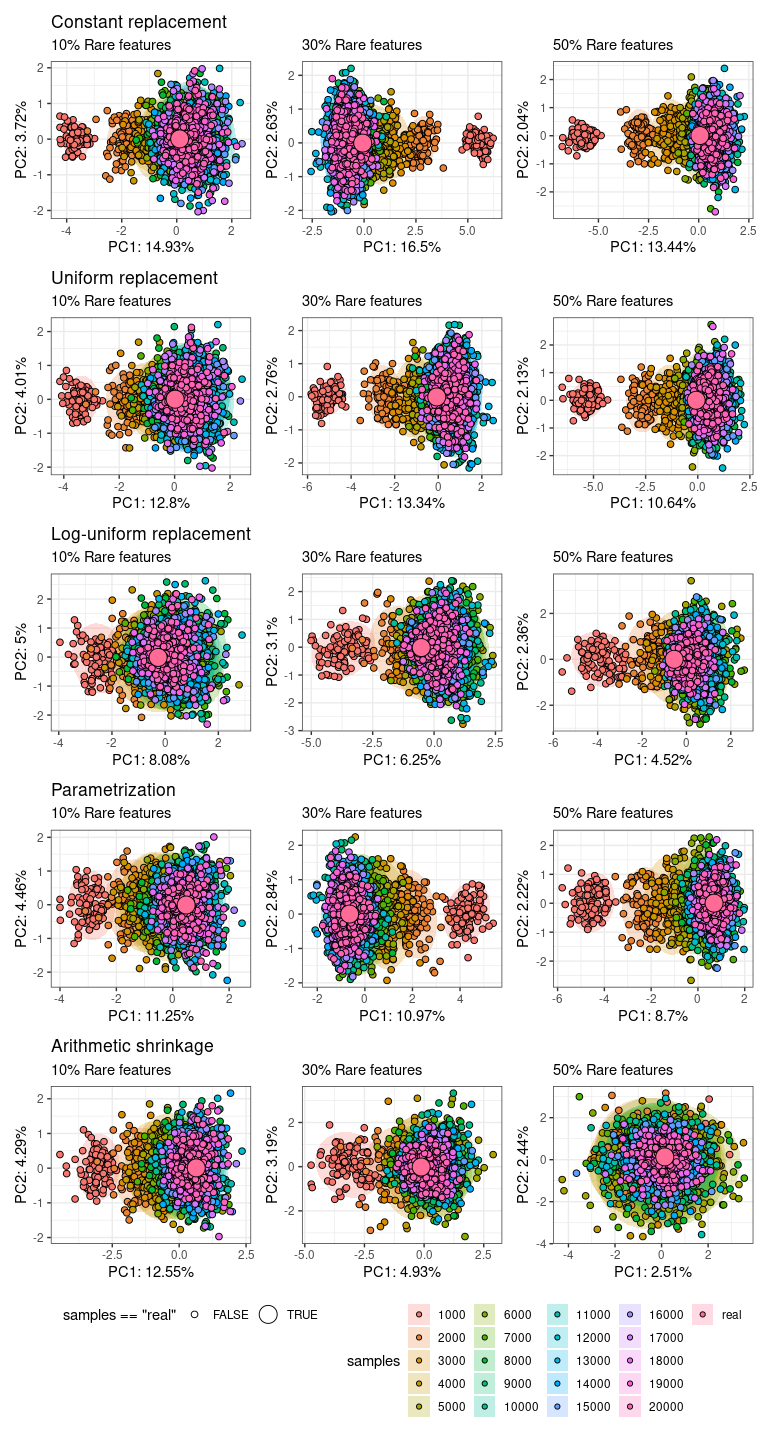
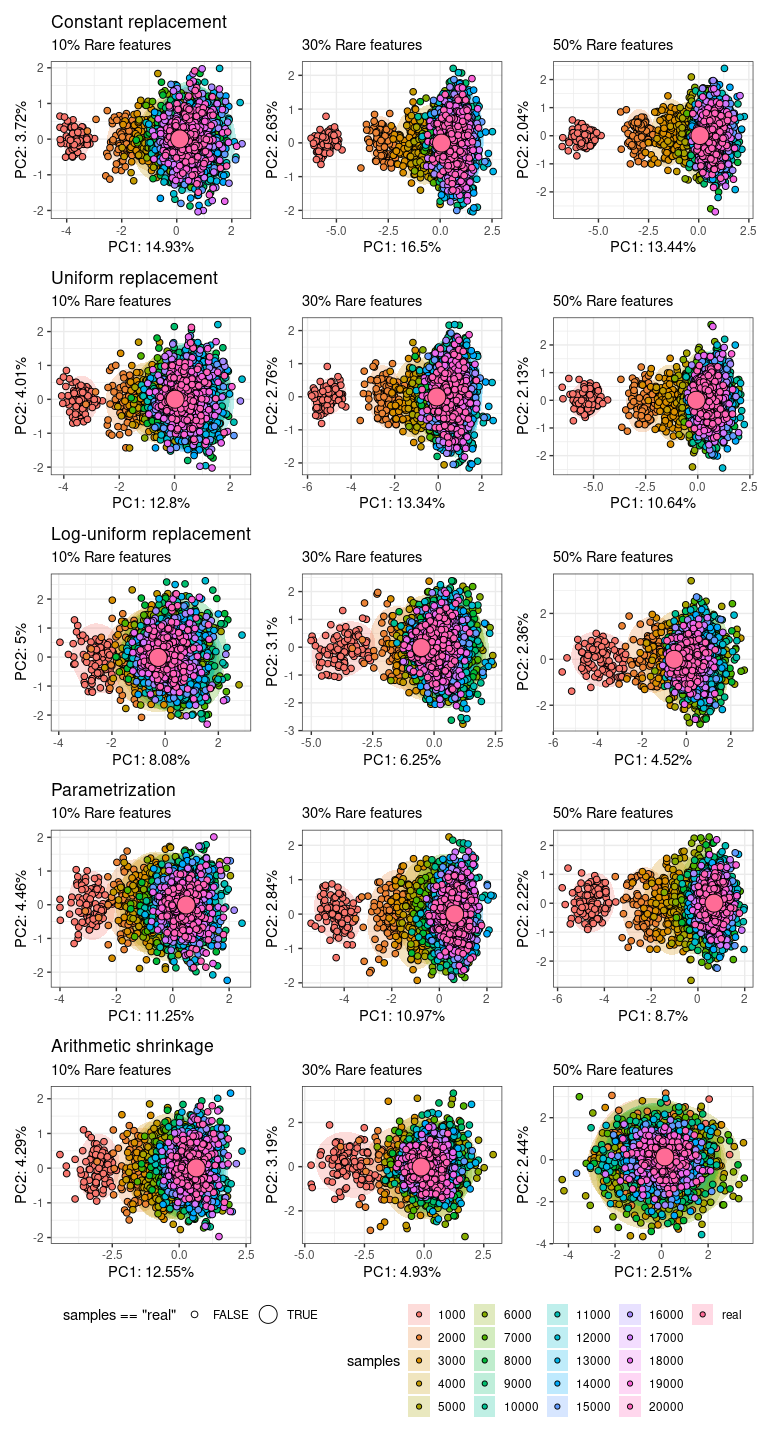
fixed PCA orientation

Changed region(s): [[0.4062, 0.5625, 0.6562, 0.6875], [0.4062, 0.0312, 0.6562, 0.1562]]

diff --git a/docs/permanova.md b/docs/permanova.md
@@ -661,7 +661,7 @@ pc3 <- round(const_b2.pca$sdev[3]^2/sum(const_b2.pca$sdev^2),4) * 100
 pc4 <- round(const_b2.pca$sdev[4]^2/sum(const_b2.pca$sdev^2),4) * 100
 
 #Extract the scores for every sample for the first four components for plotting. 
-pca  = data.frame(PC1 = const_b2.pca$x[,1], 
+pca  = data.frame(PC1 = const_b2.pca$x[,1] * -1, 
                   PC2 = const_b2.pca$x[,2], 
                   PC3 = const_b2.pca$x[,3], 
                   PC4 = const_b2.pca$x[,4])
@@ -701,7 +701,7 @@ pc3 <- round(new_b2.pca$sdev[3]^2/sum(new_b2.pca$sdev^2),4) * 100
 pc4 <- round(new_b2.pca$sdev[4]^2/sum(new_b2.pca$sdev^2),4) * 100
 
 #Extract the scores for every sample for the first four components for plotting. 
-pca  = data.frame(PC1 = new_b2.pca$x[,1] * -1, 
+pca  = data.frame(PC1 = new_b2.pca$x[,1], 
                   PC2 = new_b2.pca$x[,2], 
                   PC3 = new_b2.pca$x[,3], 
                   PC4 = new_b2.pca$x[,4])
